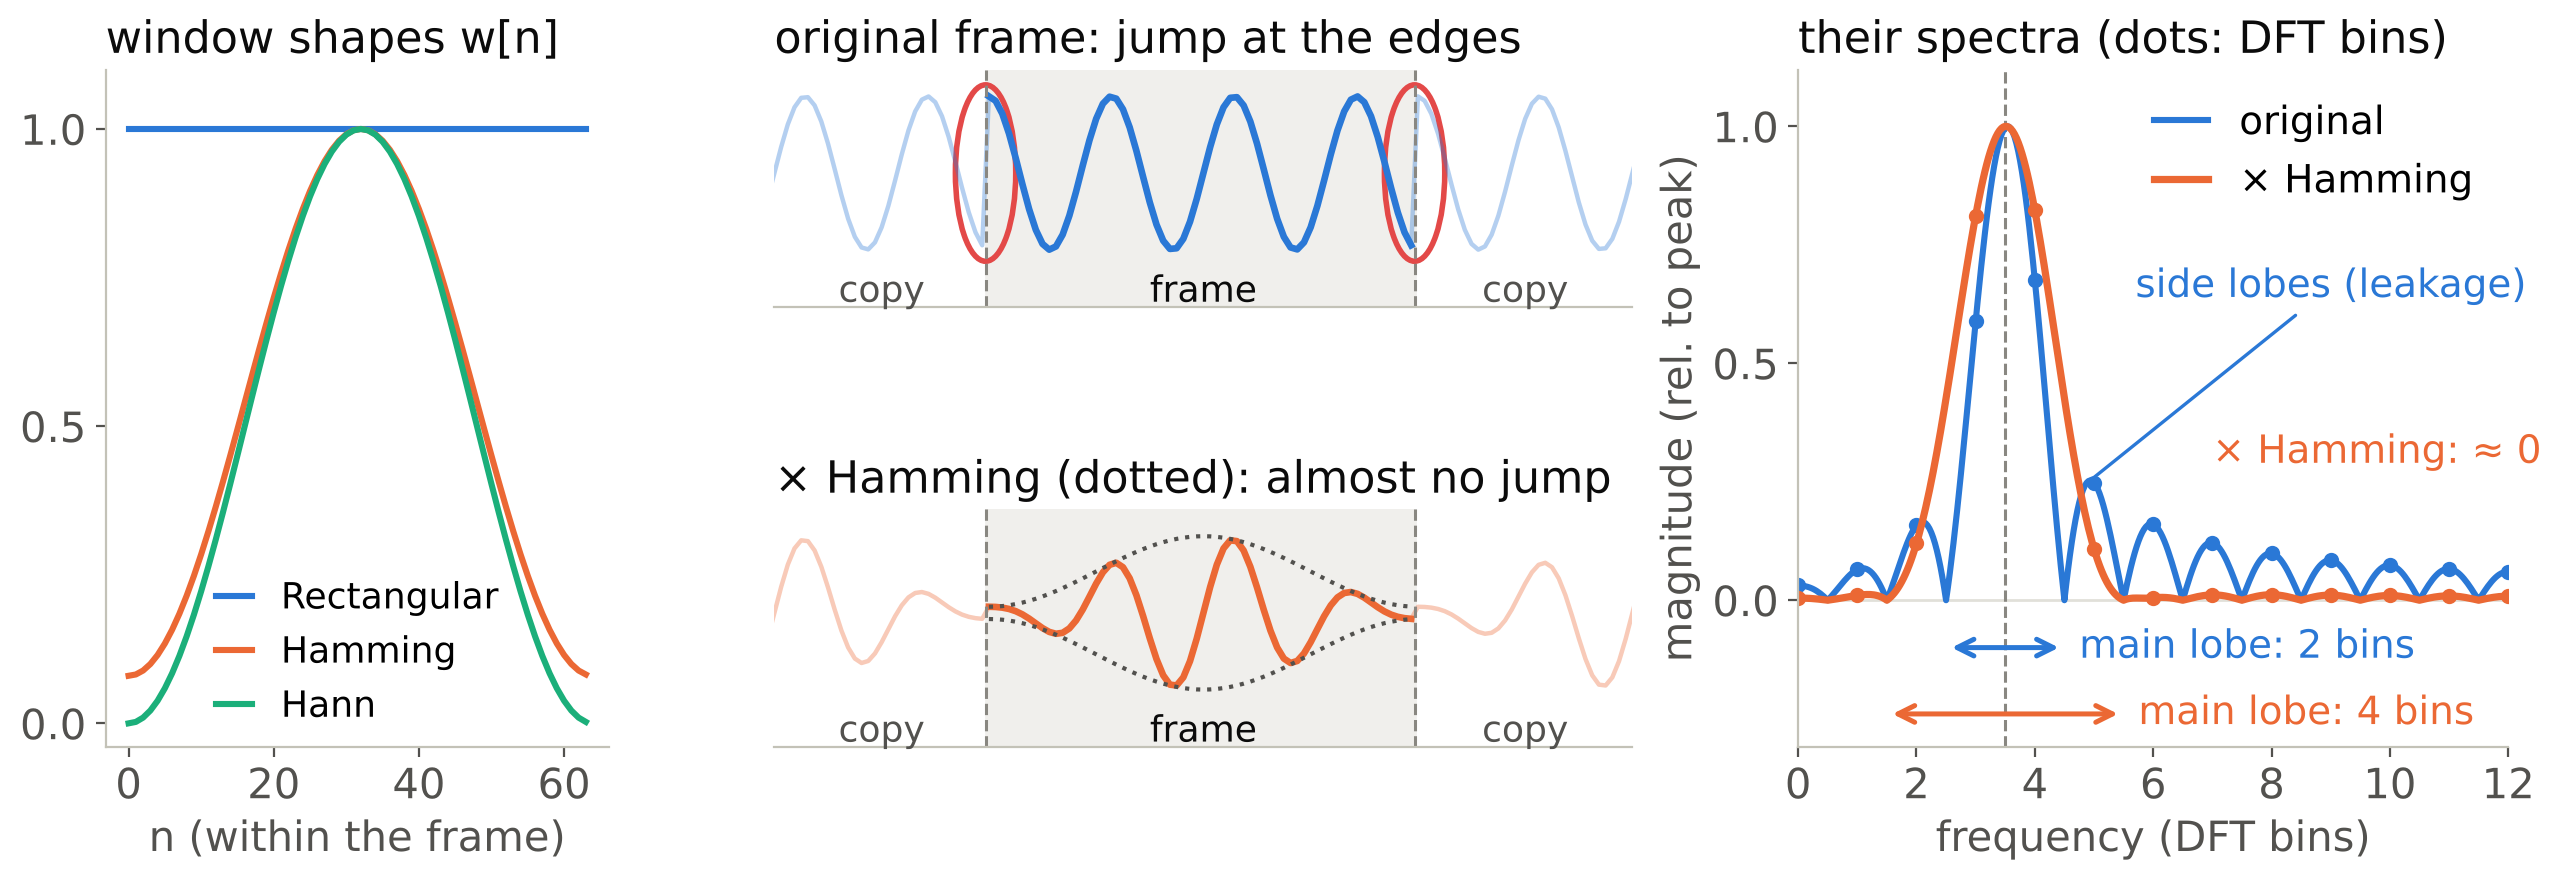
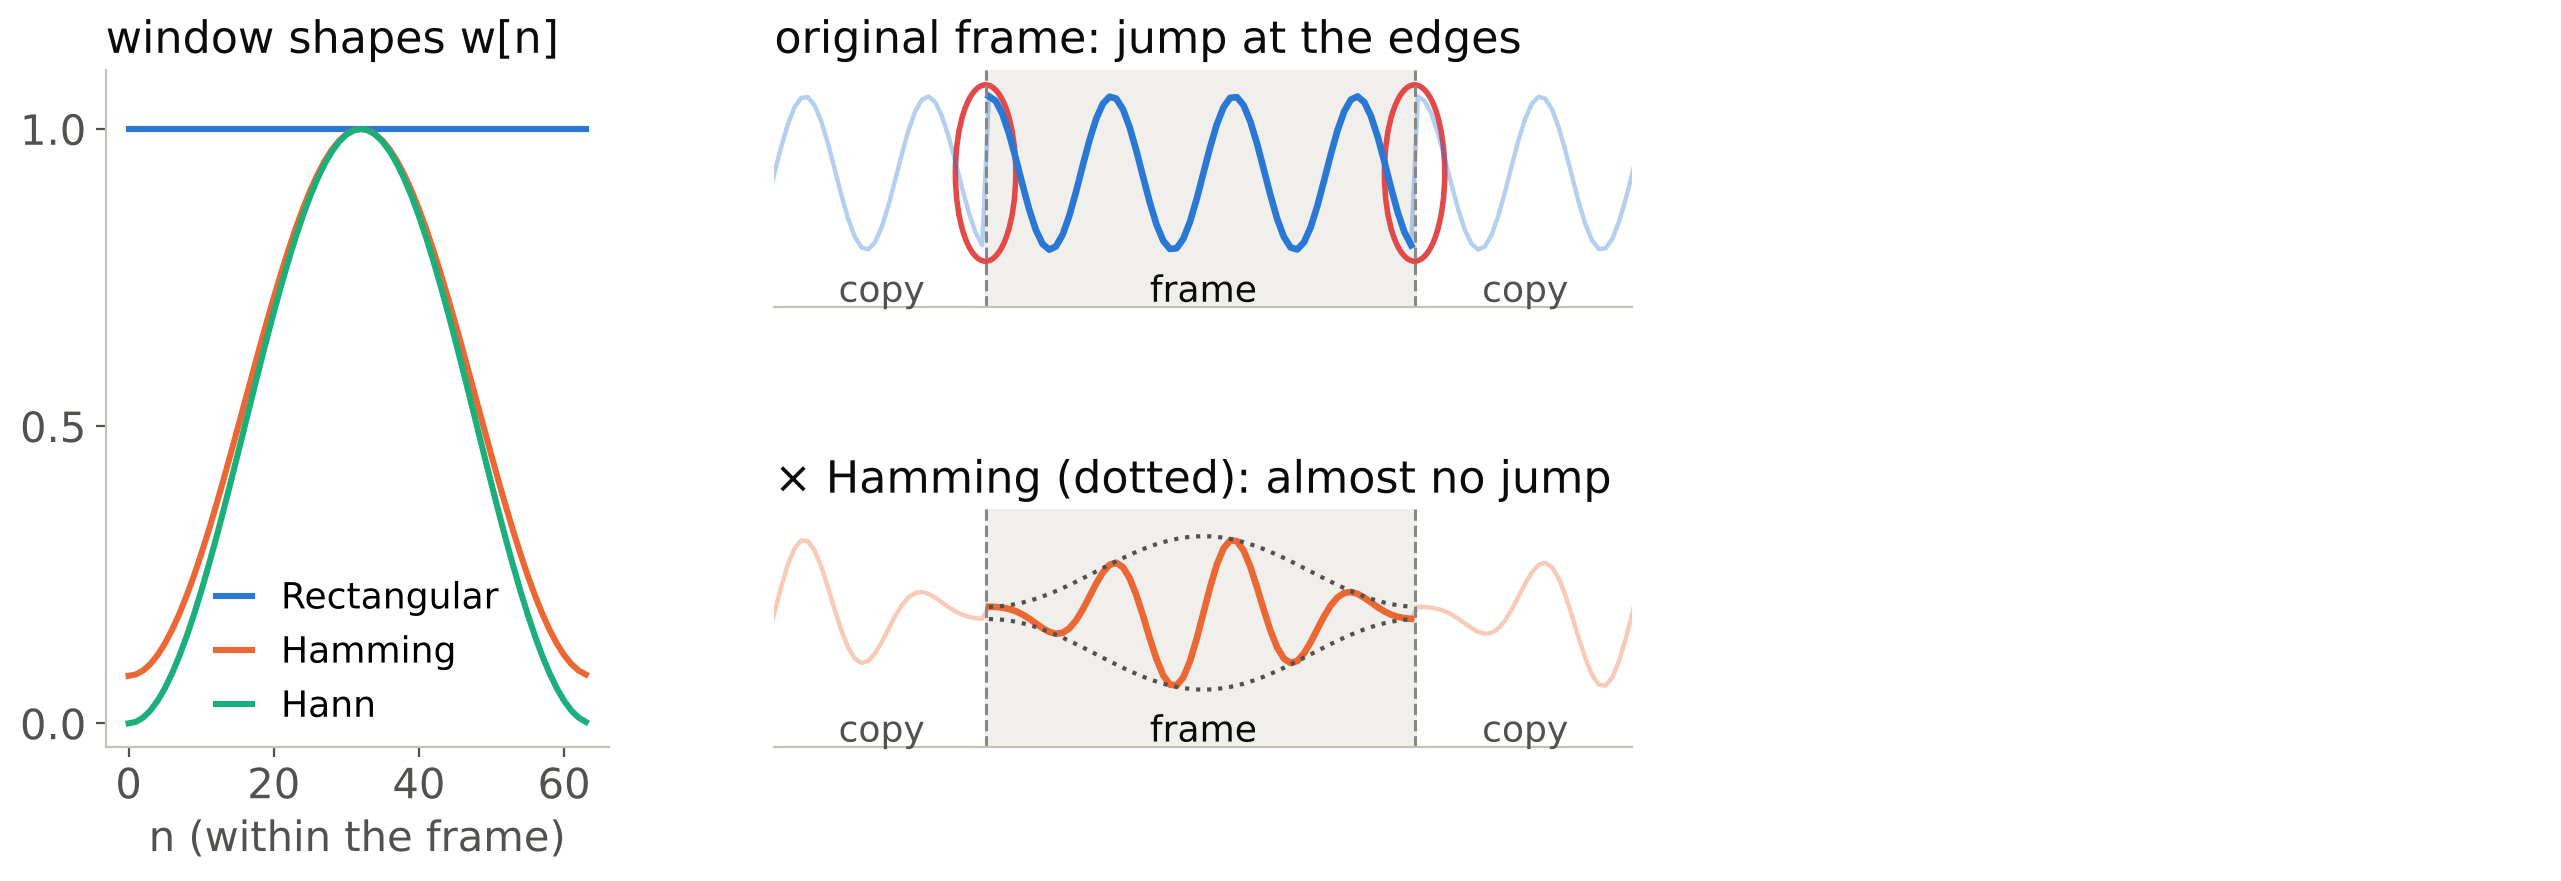
adding lecture 3

diff --git a/README.md b/README.md
@@ -56,7 +56,7 @@ Week| Date |Topic | Contents | Paper | CLO | Lecture | Assignment
 ---|---|---|---|---|---|---|---
 1 | 09-21 | Intro | General introduction to the course. WER/CER metrics. |  Browse [Open ASR Leaderboard](https://huggingface.co/spaces/hf-audio/open_asr_leaderboard) as a benchmark | 6 | [Lecture 1](lectures/lecture1.md) | [Assignment 1](assignments/assignment1.md)
 2 | 09-28 | Foundations | Formants, quantization, framing, F0 and intensity, spectrogram, sampling.  | Ch. 16.1-16.2 |  1 | [Lecture 2](lectures/lecture2.md) | [Assignment 2](assignments/assignment2.md)
-3 | 10-05 | Spectral Front End | DFT/FFT, windowing and spectral leakage, time-frequency resolution, STFT and spectrogram, mel filterbank, log-mel. MFCC | Ch. 15.5.2–15.6  | 1, 2 | [Lecture 2](lectures/lecture3.md) | [Assignment 3](assignments/assignment3.md)
+3 | 10-05 | Spectral Front End | DFT/FFT, windowing and spectral leakage, time-frequency resolution, STFT and spectrogram, mel filterbank, log-mel. MFCC | Ch. 15.5.2–15.6  | 1, 2 | [Lecture 3](lectures/lecture3.md) | [Assignment 3](assignments/assignment3.md)
 4 | 10-12 | Alignment & Decoding | The alignment problem, HMM, forward algorithm, Viterbi, GMM as a density model.| [Rabiner (1989), _A Tutorial on Hidden Markov Models_](https://ieeexplore.ieee.org/document/18626) | 3 | | **Project proposal**
 5 | 10-19 | CTC | Blank symbol, collapse function, summing over alignments, forward-backward, prefix beam search, shallow LM fusion | [Graves et al. (2006), _Connectionist Temporal Classification_](https://www.cs.toronto.edu/~graves/icml_2006.pdf) | 3, 4 | | 
 6 | 10-26 | Encoders & Transducers | CNN, BiLSTM, Transformer. RNN-T (encoder + prediction + joint network), Conformer/FastConformer, subsampling, chunked attention and causality | [Graves (2012), _Sequence Transduction with RNNs_](https://arxiv.org/abs/1211.3711); [Gulati et al. (2020), _Conformer_](https://arxiv.org/abs/2005.08100) | 4 | | 

diff --git a/lectures/lecture3.md b/lectures/lecture3.md
@@ -118,8 +118,8 @@ title: The DFT
 
 $$X[k] = \sum_{n=0}^{N-1} \underbrace{x[n]}_{\text{frame of } N \text{ samples}} \cdot \underbrace{e^{-j 2\pi k n / N}}_{\text{probe wave: } k \text{ cycles per frame}}$$
 
-- **Read it as**: multiply frame and probe sample by sample, then add up: a **large** sum if the frame contains that frequency; otherwise they cancel (exactly, for a whole number of cycles; see *leakage*).
-- $|X[k]|$ = **how much** of that frequency is present; the angle of $X[k]$ = its **phase**.
+- **Read it as**: multiply frame and probe sample by sample, then add up: a **large** sum if the frame contains that frequency; otherwise they cancel.
+- $|X[k]|$ = **how much** of that frequency is present.
 
 <img src="./images/lec3_dft_probe.png" class="w-full mt-1" style="max-height: 180px; object-fit: contain;" />
 
